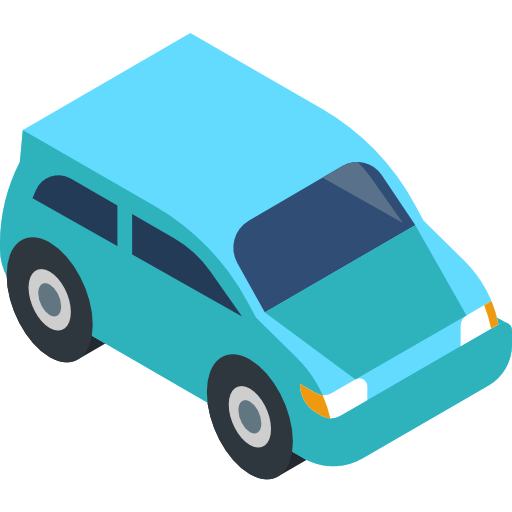
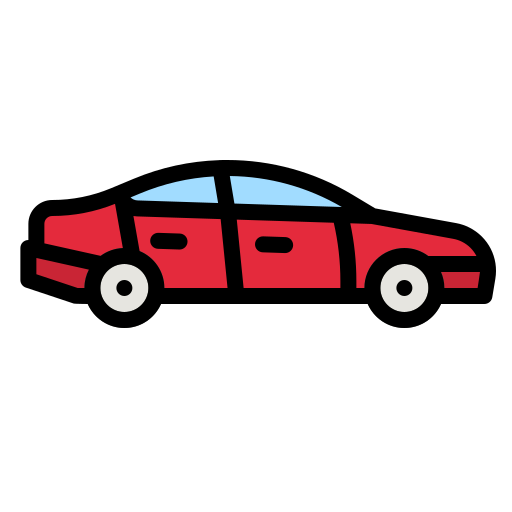
aktualizacja interfejsu, typ pojazdu do poprawienia

diff --git a/gui.py b/gui.py
@@ -20,73 +20,100 @@ class SecondScreen(QWidget):
         p.setColor(self.backgroundRole(), Qt.black)
         self.setPalette(p)
 
-        layout = QGridLayout()
-        layout.setSpacing(5)
+        main_layout = QGridLayout()
+        main_layout.setSpacing(5)
 
-        layout.setContentsMargins(0, 0, 0, 0)
+        main_layout.setContentsMargins(0, 0, 0, 0)
 
-        info_label = QLabel()
-        info_label.setStyleSheet("background-color: white;")
-        layout.addWidget(info_label, 1, 0, 8, 16)
+        white_fullscreen_label = QLabel()
+        white_fullscreen_label.setStyleSheet("background-color: white;")
+        main_layout.addWidget(white_fullscreen_label, 1, 0, 8, 16)
+
+        ## -- NR REJESTRACYJNY
 
         license_plate_label = QLabel("SC 12345")
         license_plate_label.setAlignment(Qt.AlignCenter)
         license_plate_label.setStyleSheet("background-color: white; color: black;")
         license_plate_label.setFont(QFont("Arial", 75, QFont.Bold))
-        layout.addWidget(license_plate_label, 0, 0, 1, 16)
+        main_layout.addWidget(license_plate_label, 0, 0, 1, 16)
 
-        ##
+        ## -- TYP POJAZDU
 
         vehicle_type_label = QLabel()
         vehicle_type_label.setAlignment(QtCore.Qt.AlignmentFlag.AlignVCenter | QtCore.Qt.AlignmentFlag.AlignLeft)
-        vehicle_type_label.setFont(QFont("Arial", 65, QFont.Bold))
-        vehicle_type_label.setText("Motocykl")
+        vehicle_type_label.setFont(QFont("Arial", 45, QFont.Bold))
+        vehicle_type_label.setText("Samochód")
         vehicle_type_label.setContentsMargins(20, 20, 20, 20)
 
-        vehicle_original_icon = QIcon('resources/images/motorbike.png')
+        vehicle_original_icon = QIcon('resources/images/car.png')
         vehicle_icon_label = QLabel()
-        vehicle_icon_label.setPixmap(vehicle_original_icon.pixmap(250, 250))
+        vehicle_icon_label.setPixmap(vehicle_original_icon.pixmap(100, 100))
         vehicle_icon_label.setAlignment(QtCore.Qt.AlignmentFlag.AlignVCenter | QtCore.Qt.AlignmentFlag.AlignRight)
         vehicle_icon_label.setContentsMargins(20, 20, 20, 20)
 
         # Create a horizontal layout for the icon and text
-        h_layout = QHBoxLayout()
-        h_layout.addWidget(vehicle_icon_label)
-        h_layout.addWidget(vehicle_type_label)
-        h_layout.setAlignment(Qt.AlignCenter)
+        vehicle_type_layout = QHBoxLayout()
+        vehicle_type_layout.addWidget(vehicle_icon_label)
+        vehicle_type_layout.addWidget(vehicle_type_label)
+        vehicle_type_layout.setAlignment(Qt.AlignCenter)
+        vehicle_type_layout.setContentsMargins(0, 0, 0, 0)
 
         # Add the horizontal layout to the grid layout
-        layout.addLayout(h_layout, 1, 4, 1, 7)
+        main_layout.addLayout(vehicle_type_layout, 1, 5, 1, 6)
 
-        ##
-        button_h_layout = QHBoxLayout()
+        ## -- MIEJSCE PARKINGU
+
+        location_label = QLabel()
+        location_label.setAlignment(QtCore.Qt.AlignmentFlag.AlignVCenter | QtCore.Qt.AlignmentFlag.AlignLeft)
+        location_label.setFont(QFont("Arial", 45, QFont.Bold))
+        location_label.setText("Miejsce parkingu: Sektor C")
+        location_label.setContentsMargins(20, 20, 20, 20)
+
+        location_original_icon = QIcon('resources/images/location.png')
+        location_icon_label = QLabel()
+        location_icon_label.setPixmap(location_original_icon.pixmap(100, 100))
+        location_icon_label.setAlignment(QtCore.Qt.AlignmentFlag.AlignVCenter | QtCore.Qt.AlignmentFlag.AlignRight)
+        location_icon_label.setContentsMargins(20, 20, 20, 20)
+
+        # Create a horizontal layout for the icon and text
+        location_layout = QHBoxLayout()
+        location_layout.addWidget(location_icon_label)
+        location_layout.addWidget(location_label)
+        location_layout.setAlignment(Qt.AlignCenter)
+        location_layout.setContentsMargins(0, 0, 0, 0)
+
+        # Add the horizontal layout to the grid layout
+        main_layout.addLayout(location_layout, 3, 5, 1, 6)
+
+        ## -- PRZYCISK "POKAŻ MAPĘ"
 
         map_original_icon = QIcon('resources/images/location_help.png')
-        map_icon_label = QLabel()
-        map_icon_label.setPixmap(map_original_icon.pixmap(50, 50))
-        map_icon_label.setAlignment(QtCore.Qt.AlignmentFlag.AlignVCenter | QtCore.Qt.AlignmentFlag.AlignRight)
-        map_icon_label.setContentsMargins(5, 5, 5, 5)
+        show_location_icon = QLabel()
+        show_location_icon.setPixmap(map_original_icon.pixmap(100, 100))
+        show_location_icon.setAlignment(QtCore.Qt.AlignmentFlag.AlignVCenter | QtCore.Qt.AlignmentFlag.AlignRight)
+        show_location_icon.setContentsMargins(5, 5, 5, 5)
 
-        button_label = QLabel()
-        button_label.setAlignment(QtCore.Qt.AlignmentFlag.AlignVCenter | QtCore.Qt.AlignmentFlag.AlignLeft)
-        button_label.setFont(QFont("Arial", 20, QFont.Bold))
-        button_label.setText("Pokaż miejsce na schemacie")
-        button_label.setContentsMargins(5, 5, 5, 5)
+        show_location_label = QLabel()
+        show_location_label.setAlignment(QtCore.Qt.AlignmentFlag.AlignVCenter | QtCore.Qt.AlignmentFlag.AlignLeft)
+        show_location_label.setFont(QFont("Arial", 40, QFont.Bold))
+        show_location_label.setText("Pokaż miejsce na schemacie")
+        show_location_label.setContentsMargins(5, 5, 5, 5)
 
-        button_h_layout.addWidget(map_icon_label)
-        button_h_layout.addWidget(button_label)
-        button_h_layout.setAlignment(Qt.AlignCenter)
+        show_location_button_layout = QHBoxLayout()
+        show_location_button_layout.addWidget(show_location_icon)
+        show_location_button_layout.addWidget(show_location_label)
+        show_location_button_layout.setAlignment(Qt.AlignCenter)
 
-        button = QPushButton()
-        button.setStyleSheet(
+        show_location_button = QPushButton()
+        show_location_button.setStyleSheet(
             "background-color: black; color: white; border-radius: 15px;"
         )
-        button.setLayout(button_h_layout)
-        button.setSizePolicy(QSizePolicy.Preferred, QSizePolicy.Preferred)
+        show_location_button.setLayout(show_location_button_layout)
+        show_location_button.setSizePolicy(QSizePolicy.Preferred, QSizePolicy.Preferred)
 
-        layout.addWidget(button, 5, 6, 1, 4)
+        main_layout.addWidget(show_location_button, 5, 5, 1, 6)
 
-        self.setLayout(layout)
+        self.setLayout(main_layout)
 
 
 class FullScreenApp(QMainWindow):
